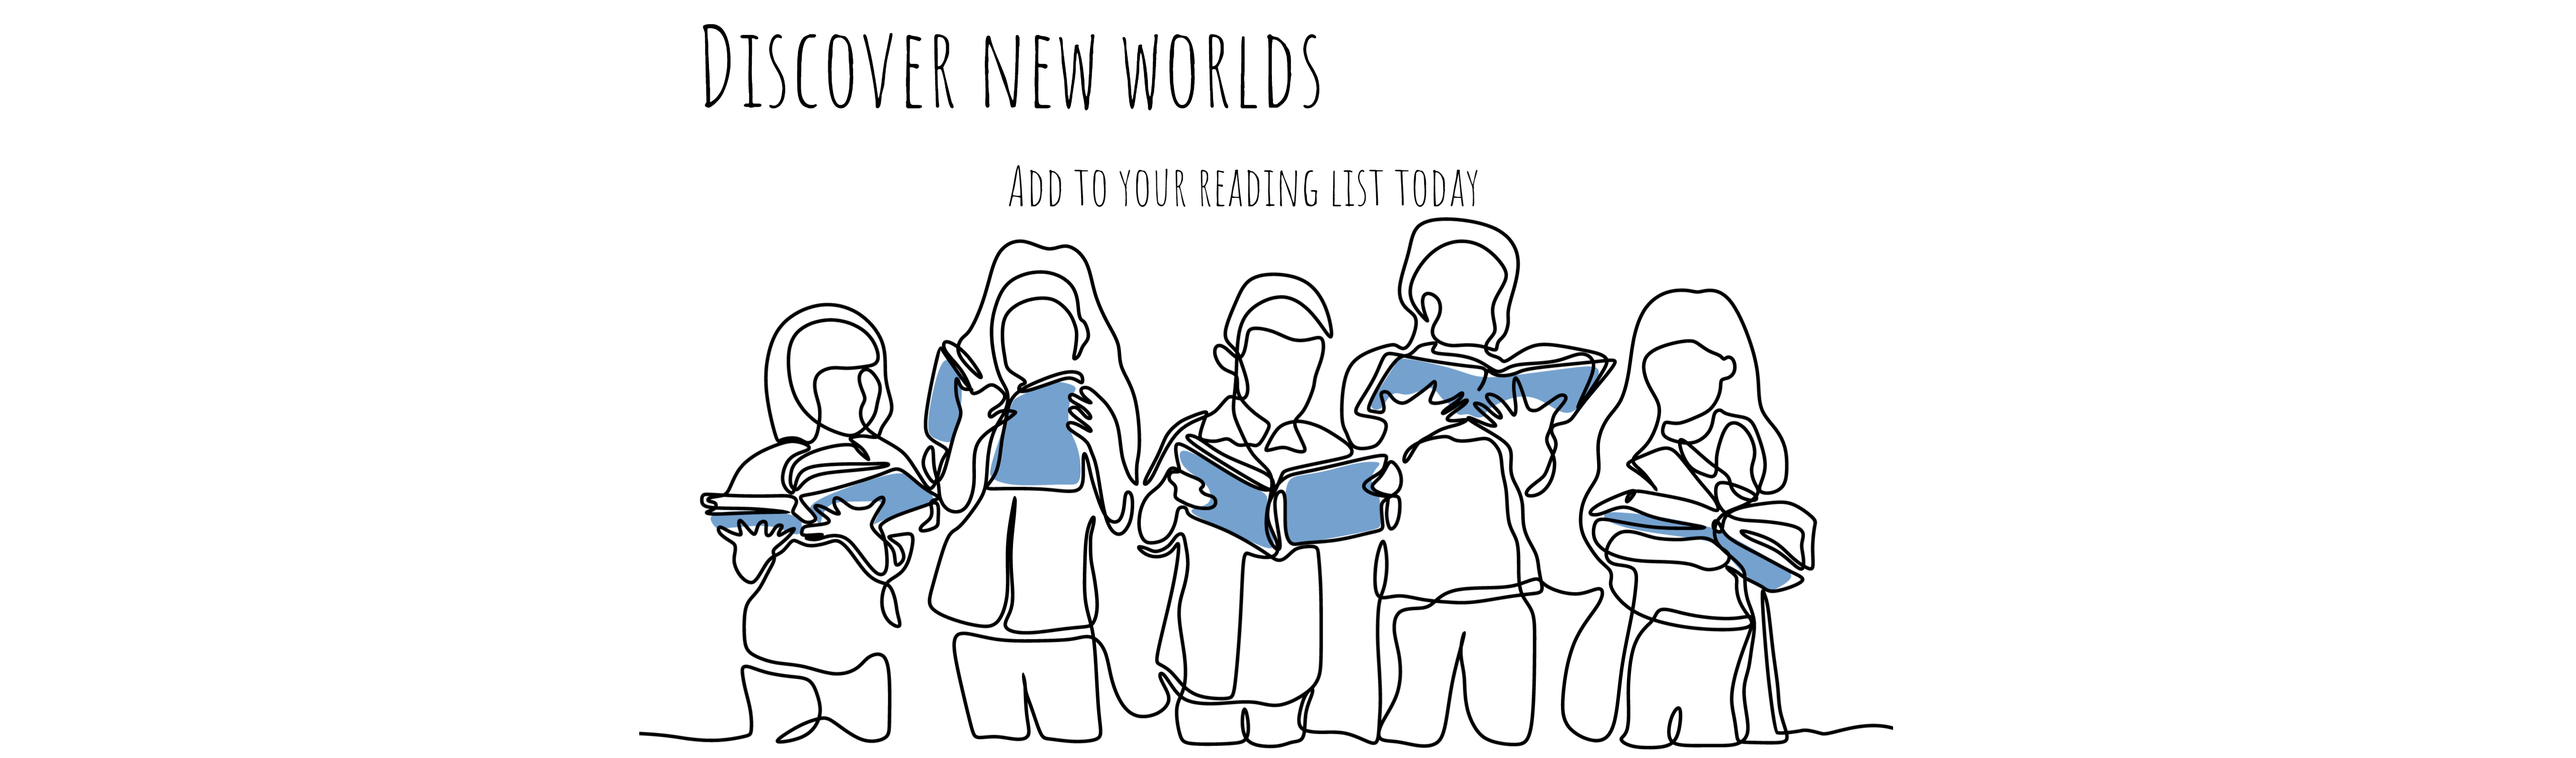
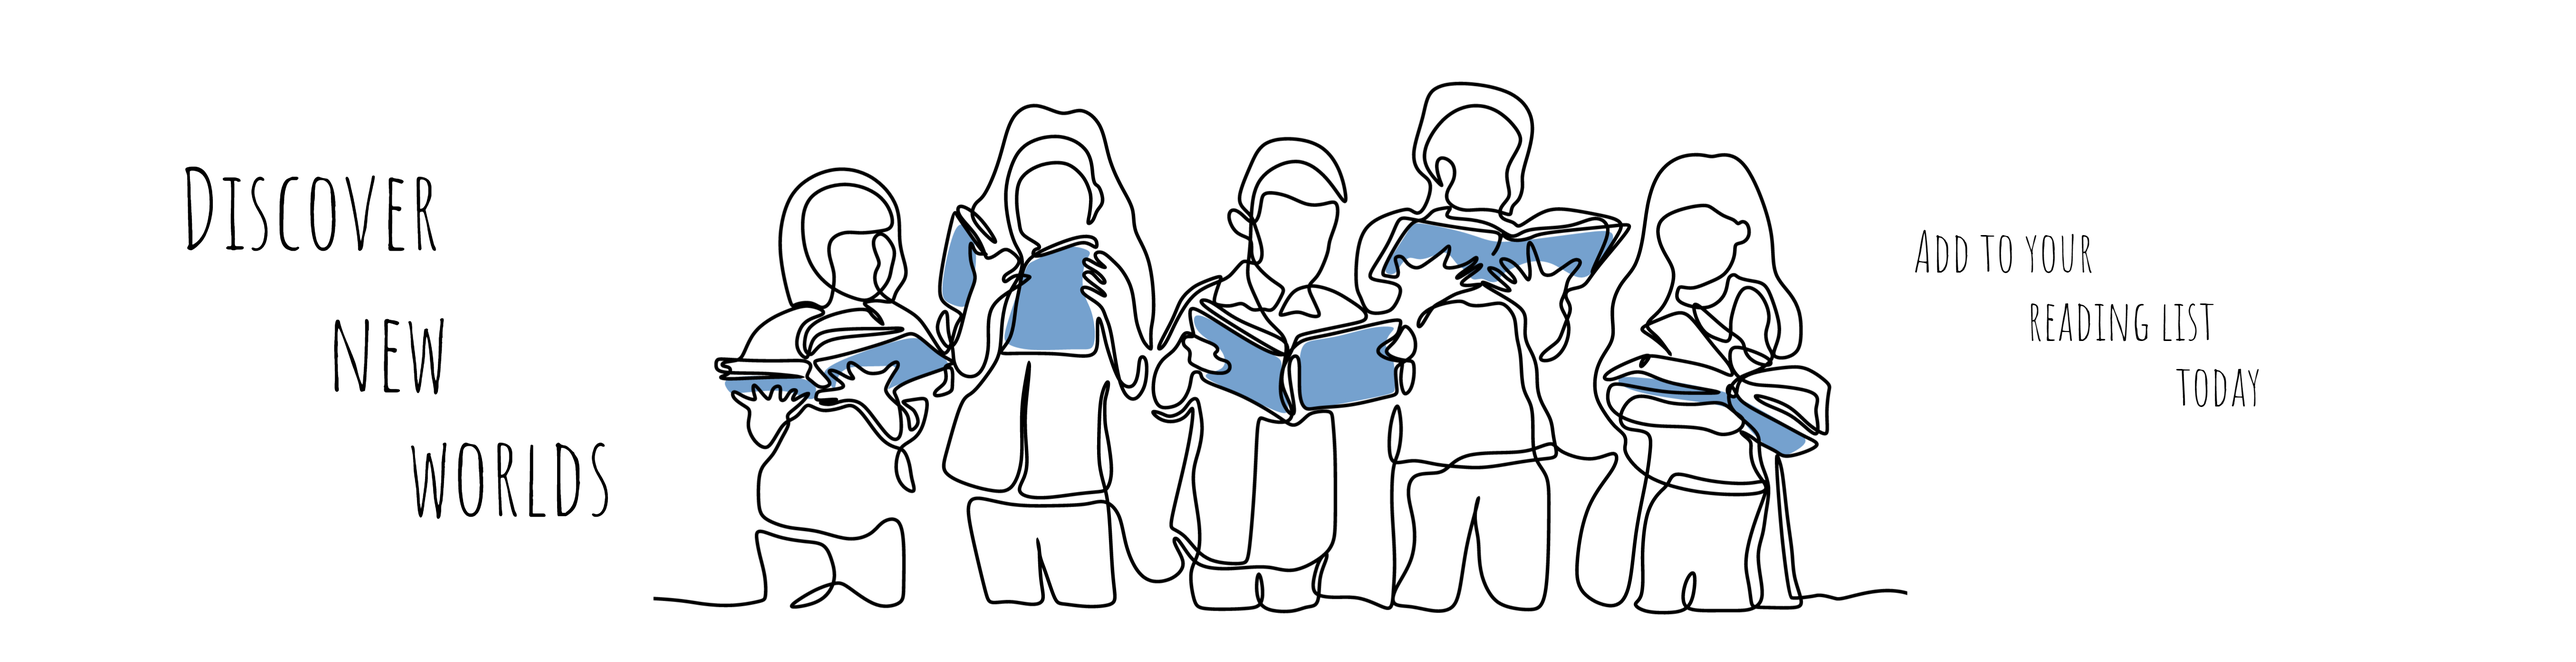
hero image changed

diff --git a/assets/css/styles.css b/assets/css/styles.css
@@ -2,7 +2,7 @@
 	box-sizing: border-box;
 	padding: 0;
 	margin: 0;
-	/* outline: 1px solid rgb(0, 0, 0); */
+	outline: 1px solid rgb(0, 0, 0);
 }
 
 body {
@@ -14,6 +14,14 @@ body {
 #savedItemsList {
 	width: 100%;
 	list-style-type: none;
+}
+
+#saveList h2 {
+	border: 1px solid white;
+	border-radius: 10px;
+	height: fit-content;
+	padding: 10px;
+	background-color: white;
 }
 
 .bookItem {
@@ -49,17 +57,10 @@ nav {
 }
 
 #heroSection {
-	background: rgb(0, 0, 0);
-	background-image: linear-gradient(
-			90deg,
-			rgba(0, 0, 0, 0.7503150918570554) 0%,
-			rgba(0, 0, 0, 0.251715652081145) 50%,
-			rgba(0, 0, 0, 0.7503150918570554) 100%
-		),
-		/* placeholder image  */ url(../images/HeroCropped.png);
+	background-image: url(../images/Hero.png);
 	background-position: center;
-	background-size: auto;
-	background-repeat: round;
+	background-size: 75%;
+	background-repeat: no-repeat;
 	height: 350px;
 }
 
@@ -94,7 +95,7 @@ form button {
 .book-container::before {
 	content: "";
 	position: absolute;
-	background-color: rgb(128, 9, 0);
+	background-color: rgb(255, 56, 96);
 	inset: -21px 13px;
 	height: 108px;
 	width: 15px;
@@ -110,7 +111,7 @@ form button {
 }
 
 .heart-red {
-	background-color: rgb(155, 27, 27);
+	background-color: rgb(255, 56, 96);
 	cursor: pointer;
 	display: inline-block;
 	height: 21px;
@@ -129,7 +130,7 @@ form button {
 .heart-red:before,
 .heart-red:after {
 	content: "";
-	background-color: rgb(155, 27, 27);
+	background-color: rgb(255, 56, 96);
 	border-radius: 50%;
 	height: 20px;
 	position: absolute;

diff --git a/index.html b/index.html
@@ -11,7 +11,7 @@
     <!-- Save list -->
   <section id="saveList" class="p-2 is-flex is-flex-direction-column is-flex-wrap-nowrap">
     <div class="column is-flex is-justify-content-center">
-      <h2 class="title is-2 has-text-white">Saved Books:</h2>
+      <h2 class="title is-2 has-text-danger">Saved Books</h2>
     </div>
     <ul id="savedItemsList" class="has-text-black">
       <!-- DOM manipulation for Saved List  -->
